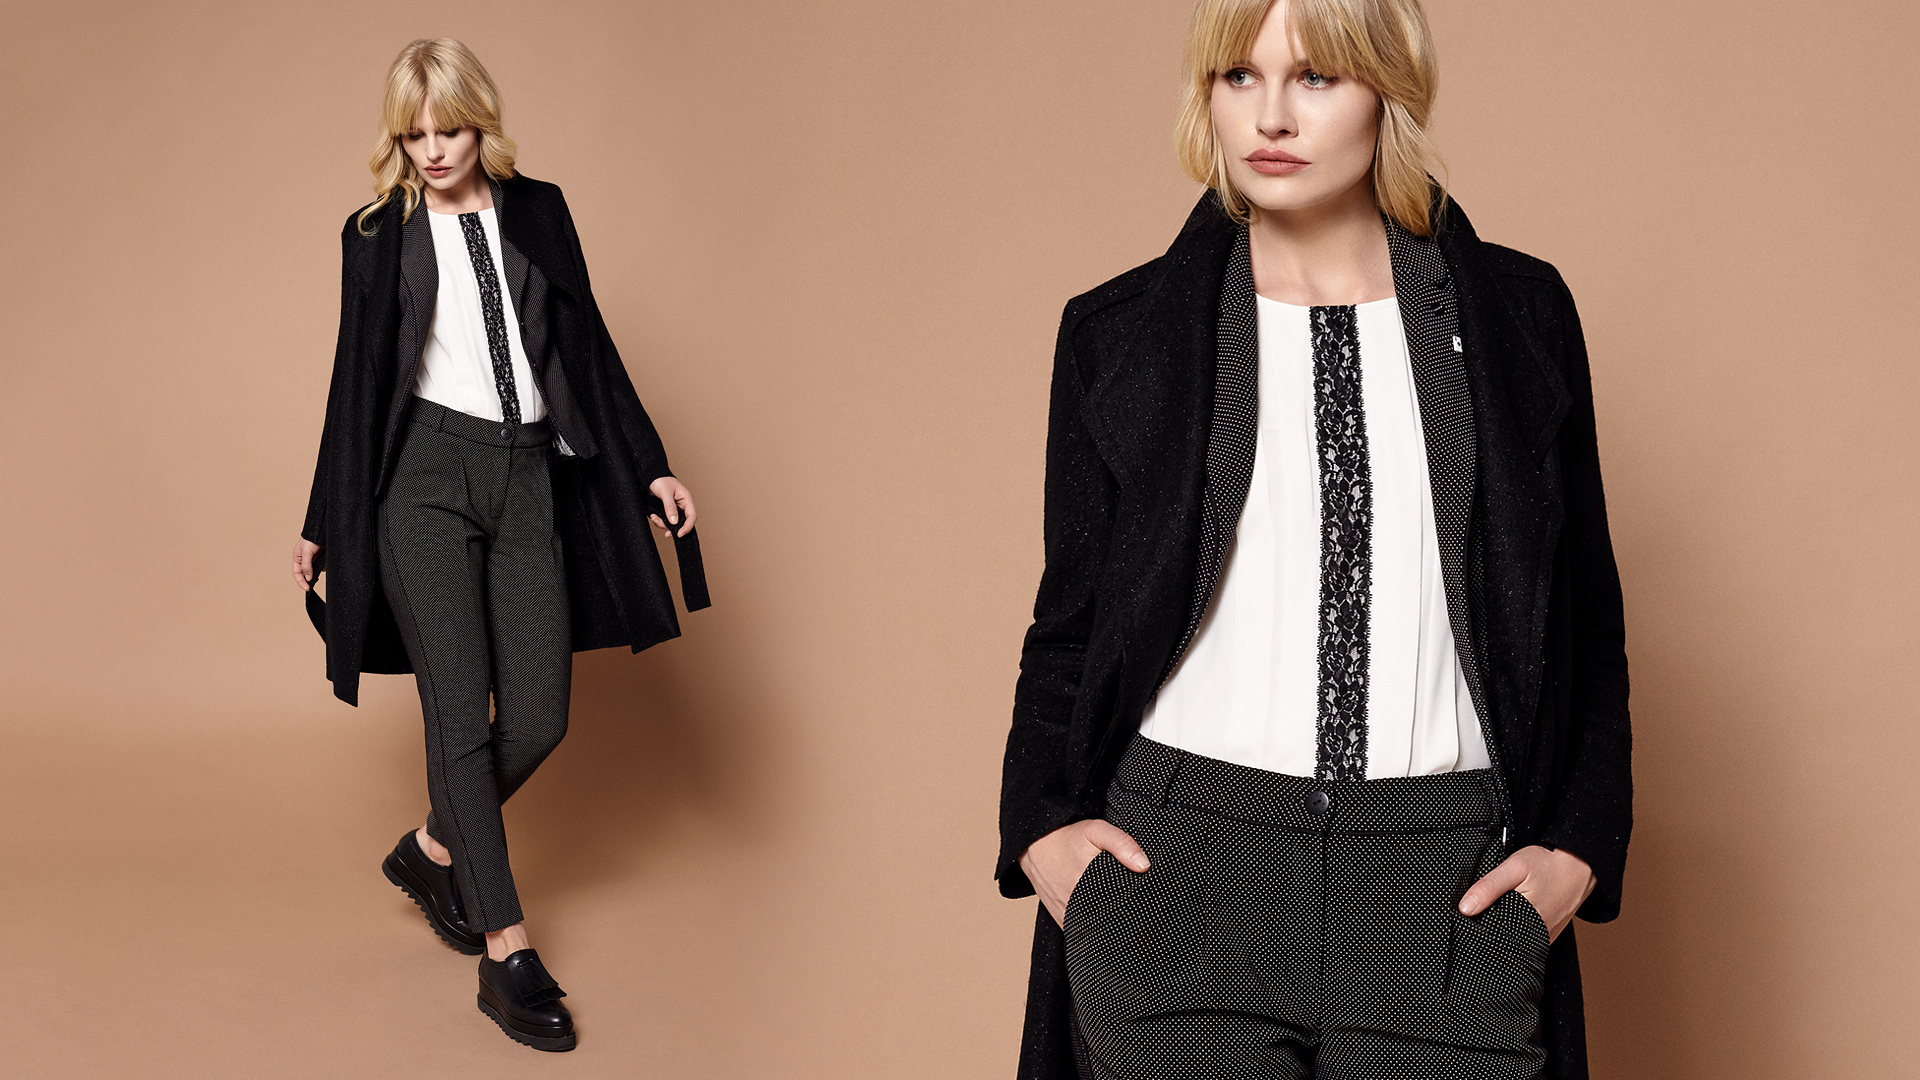
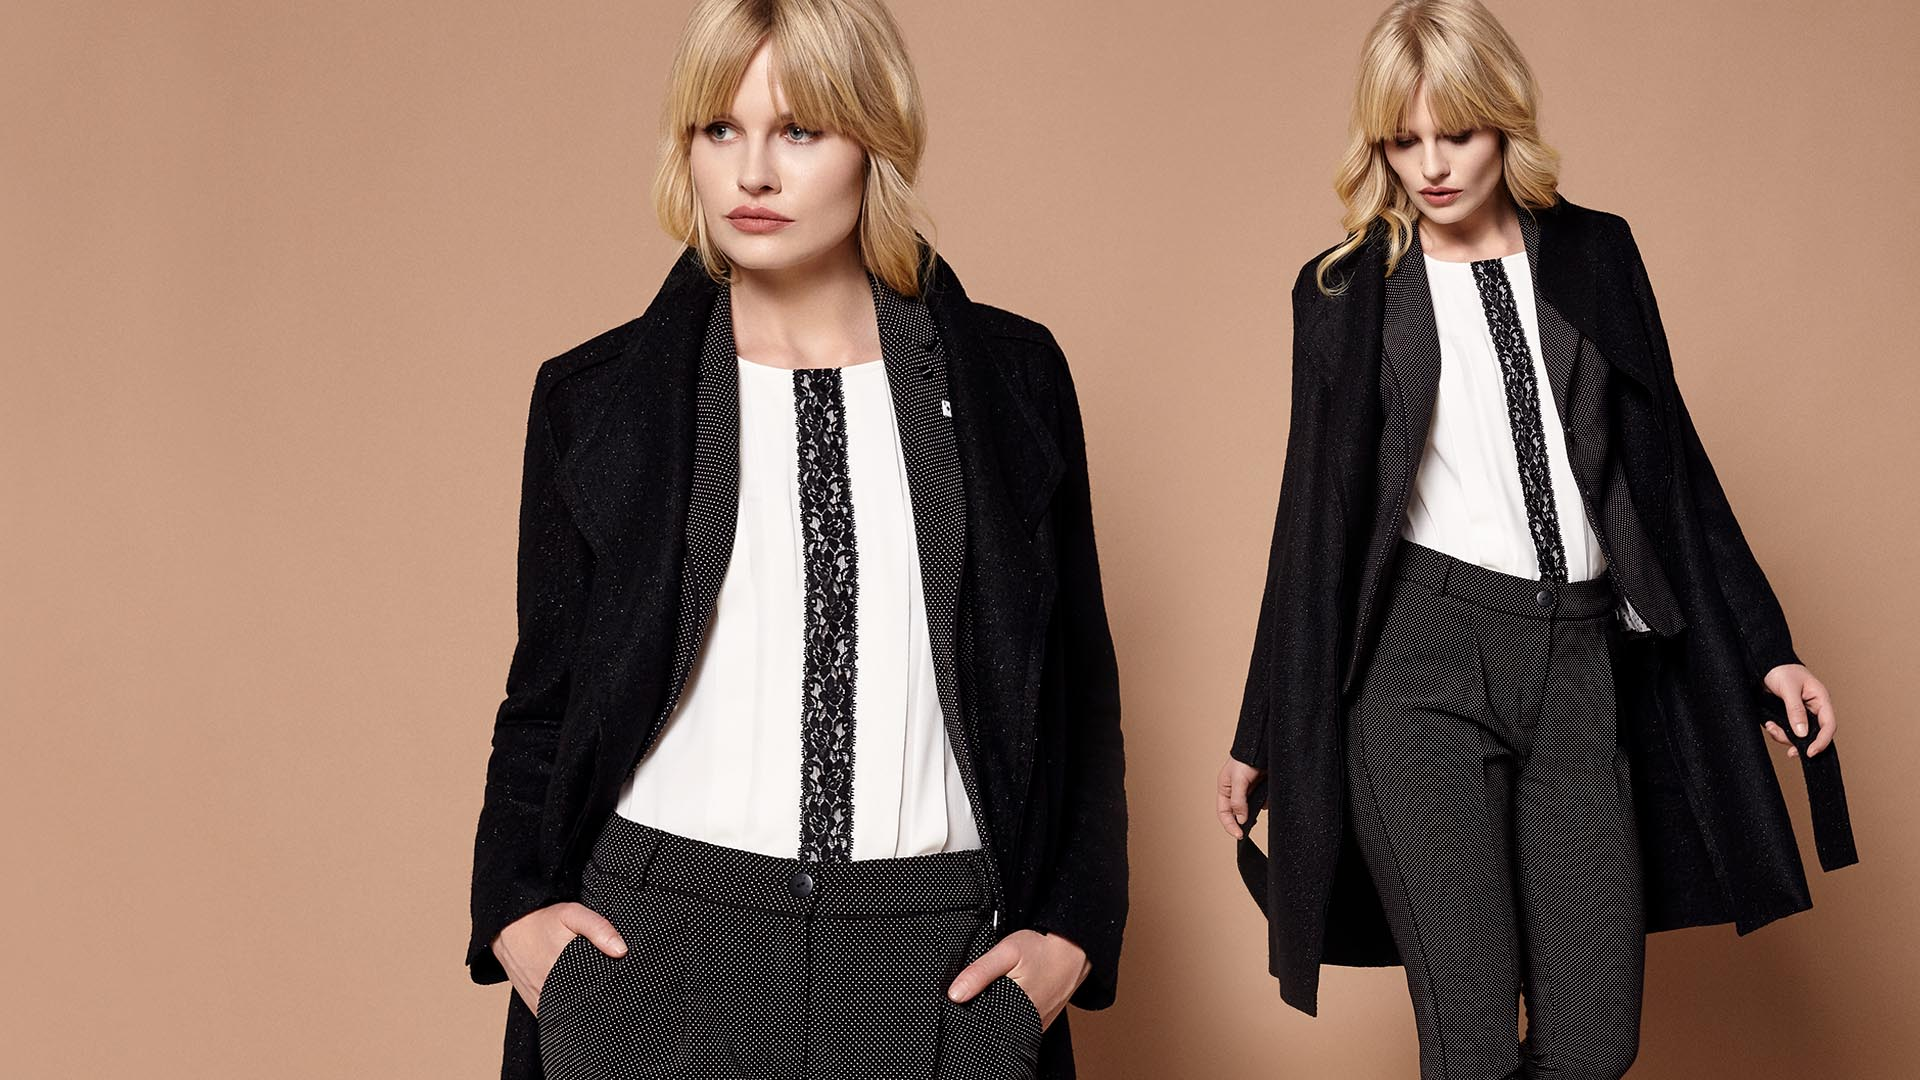
fotki do slidera

diff --git a/index.html b/index.html
@@ -71,8 +71,10 @@
                     </div>
                     
                     <div id="sa">
-                       <span>Hello! Welcome to Onepage </span>
-                        <a href="#about" class="enter">Click on me!</a>
+                       <span>START!</span><br>
+					   <span>16 października</span><br>
+					   <span>2017</span>
+                        <!--<a href="#about" class="enter">Click on me!</a>-->
                     </div>
                     
                     <!-- /Logo -->
@@ -82,9 +84,9 @@
         </div>
         <!-- Slider -->
         <div class="slider">    
-            <!--Arrow Navigation
-            <a id="prevslide" class="load-item"></a>
-            <a id="nextslide" class="load-item"></a>-->
+            <!--Arrow Navigation-->
+            <!--<a id="prevslide" class="load-item"></a>
+            <a id="nextslide" class="load-item"></a>
 
             <!--Time Bar-->
             <div id="progress-back" class="load-item">
@@ -96,7 +98,7 @@
     <!-- / Header -->
     
     <!-- Nav -->
-    <nav id="nav">
+    <!-- <nav id="nav">
     	<div class="container">
         	<div class="navopener">
             	<ul class="menu">
@@ -116,11 +118,11 @@
             </div>
         	
         </div>
-    </nav>
+    </nav> -->
     <!-- /Nav -->
     
     <!-- About -->
-    <section id="about">
+    <!--<section id="about">
     	<div class="container">
             
             <div class="title-white column">
@@ -197,18 +199,18 @@
 
         </div>
         <div class="bg1"></div>
-    </section>
+    </section> -->
     <!-- / About -->
     
     <!-- BG -->
-    <section id="parallax1">
+    <!--<section id="parallax1">
         <div class="bg1"><div class="bg-mask"><h2><span>Get to know us better</span></h2></div></div>
         
-    </section>
+    </section> -->
     <!-- / BG -->
     
     <!-- Services -->
-    <section id="services">
+    <!--<section id="services">
     	<div class="container">
         
         	<div class="title-white column">
@@ -240,17 +242,17 @@
             </div>
 
         </div>
-    </section>
+    </section> -->
     <!-- / Services -->
     
      <!-- BG -->
-    <section id="parallax2">
+    <!--<section id="parallax2">
         <div class="bg2"><div class="bg-mask"><h2><span>We will do our best</span></h2></div></div>
-    </section>
+    </section> -->
     <!-- / BG -->
     
     <!-- Works -->
-    <section id="works">
+    <!--<section id="works">
     	<div class="container">
         
         	<div class="title-white column">
@@ -297,17 +299,17 @@
             </div>
             
         </div>
-    </section>
+    </section> -->
     <!-- / Works -->
     
      <!-- BG -->
-    <section id="parallax3">
+    <!--<section id="parallax3">
         <div class="bg3"><div class="bg-mask"><h2><span>Works we are proud of</span></h2></div></div>
-    </section>
+    </section> -->
     <!-- / BG -->
     
     <!-- Contact -->
-    <section id="contact">
+    <!--<section id="contact">
     	<div class="container">
         
         	<div class="title-white column">
@@ -340,11 +342,11 @@ cupiditate non provident,</p>
                 <div class="alertMessage"></div>
             </div>
         </div>
-    </section>
+    </section> -->
     <!-- / Contact -->
     
     <!-- Footer -->
-    <footer id="footer">
+    <!--<footer id="footer">
 		<div class="container">
             <ul class="foot-social">
             	<li><a href="#" class="foot-twitter foot-icons"></a></li>
@@ -355,7 +357,7 @@ cupiditate non provident,</p>
             </ul>
             <p><a href="http://themeforest.net/user/ThemeMarket/portfolio" target="_blank">Copyright 2012. ThemeMarket</a></p>
         </div>
-    </footer>
+    </footer> -->
     <!-- / Footer -->
     
 </div>

diff --git a/js/thememarket.js b/js/thememarket.js
@@ -103,9 +103,9 @@ $(function($){
 		slide_links				:	'blank',	// Individual links for each slide (Options: false, 'num', 'name', 'blank')
 		slides 					:  	[			// Slideshow Images
 											{image : 'img/slider/1.jpg'},
-											{image : 'img/slider/6.jpg'},
-											{image : 'img/slider/7.jpg'},
-											{image : 'img/slider/3.jpg'}
+											{image : 'img/slider/2.jpg'},
+											{image : 'img/slider/3.jpg'},
+											{image : 'img/slider/4.jpg'}
 									]
 		
 	});

diff --git a/css/devices/479.css b/css/devices/479.css
@@ -6,11 +6,13 @@
 /*------------------------------------------------------------------*/ 
 /*	1) Header
 /*------------------------------------------------------------------*/
+
+	
 .header-title span{
 	font-size:25px;
 }
 .header-title a.enter{
-	margin:15px auto;
+	margin:1px auto;
 	width:150px;
 	font-size:15px;
 }
@@ -18,9 +20,7 @@
 	text-align:center;
 	margin:0 0 10px 0;	
 }
-#sa span{
-	display:none;
-}
+
 .bg-mask h2{
 	margin:180px 0;
 	font-size:22px;

diff --git a/css/devices/767.css b/css/devices/767.css
@@ -18,9 +18,7 @@
 	text-align:center;
 	margin:0 0 10px 0;	
 }
-#sa span{
-	display:none;
-}
+
 .bg-mask h2{
 	margin:180px 0;
 	font-size:30px;
